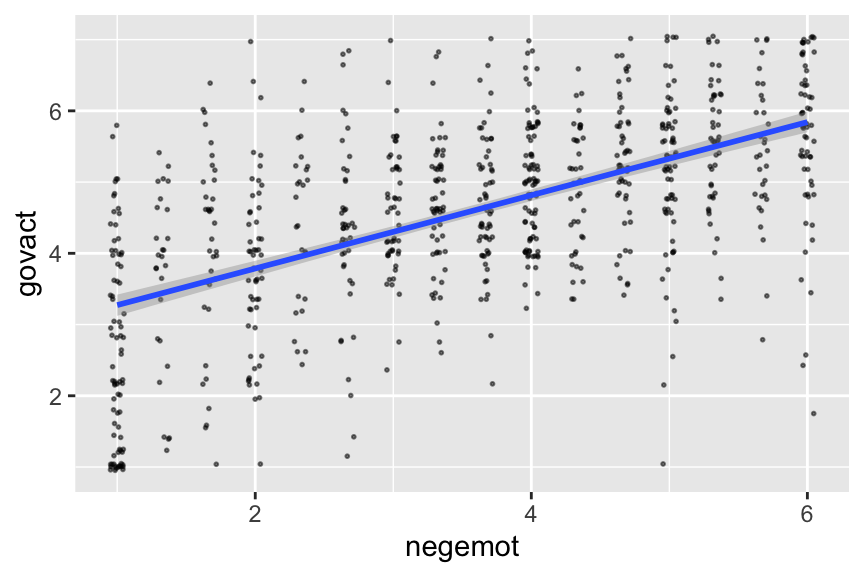
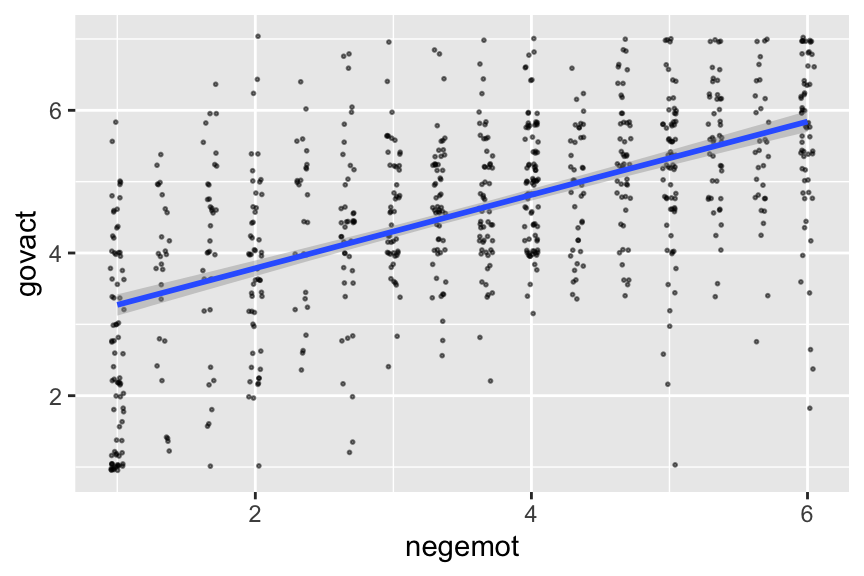
giscus

diff --git a/_book/02.html b/_book/02.html
@@ -2490,9 +2490,9 @@ Yao, Y., Vehtari, A., Simpson, D., &amp; Gelman, A. (2018). Using stacking to av
     script.src = "https://giscus.app/client.js";
     script.async = true;
     script.dataset.repo = "ASKurz/recoding-Hayes-2018";
-    script.dataset.repoId = "";
+    script.dataset.repoId = "MDEwOlJlcG9zaXRvcnkxMzUwNzQwMjI=";
     script.dataset.category = "General";
-    script.dataset.categoryId = "";
+    script.dataset.categoryId = "DIC_kwDOCA0Q5s4C1eRB";
     script.dataset.mapping = "title";
     script.dataset.reactionsEnabled = "1";
     script.dataset.emitMetadata = "0";

diff --git a/_book/03.html b/_book/03.html
@@ -1588,9 +1588,9 @@ Yuan, Y., &amp; MacKinnon, D. P. (2009). Bayesian mediation analysis. <em>Psycho
     script.src = "https://giscus.app/client.js";
     script.async = true;
     script.dataset.repo = "ASKurz/recoding-Hayes-2018";
-    script.dataset.repoId = "";
+    script.dataset.repoId = "MDEwOlJlcG9zaXRvcnkxMzUwNzQwMjI=";
     script.dataset.category = "General";
-    script.dataset.categoryId = "";
+    script.dataset.categoryId = "DIC_kwDOCA0Q5s4C1eRB";
     script.dataset.mapping = "title";
     script.dataset.reactionsEnabled = "1";
     script.dataset.emitMetadata = "0";

diff --git a/_book/04.html b/_book/04.html
@@ -1609,9 +1609,9 @@ Ripley, B. (2022). <em><span>MASS</span>: <span>Support</span> functions and dat
     script.src = "https://giscus.app/client.js";
     script.async = true;
     script.dataset.repo = "ASKurz/recoding-Hayes-2018";
-    script.dataset.repoId = "";
+    script.dataset.repoId = "MDEwOlJlcG9zaXRvcnkxMzUwNzQwMjI=";
     script.dataset.category = "General";
-    script.dataset.categoryId = "";
+    script.dataset.categoryId = "DIC_kwDOCA0Q5s4C1eRB";
     script.dataset.mapping = "title";
     script.dataset.reactionsEnabled = "1";
     script.dataset.emitMetadata = "0";

diff --git a/_book/05.html b/_book/05.html
@@ -1561,9 +1561,9 @@ Kay, M. (2021). <em>Extracting and visualizing tidy draws from brms models</em>.
     script.src = "https://giscus.app/client.js";
     script.async = true;
     script.dataset.repo = "ASKurz/recoding-Hayes-2018";
-    script.dataset.repoId = "";
+    script.dataset.repoId = "MDEwOlJlcG9zaXRvcnkxMzUwNzQwMjI=";
     script.dataset.category = "General";
-    script.dataset.categoryId = "";
+    script.dataset.categoryId = "DIC_kwDOCA0Q5s4C1eRB";
     script.dataset.mapping = "title";
     script.dataset.reactionsEnabled = "1";
     script.dataset.emitMetadata = "0";

diff --git a/_book/06.html b/_book/06.html
@@ -1675,9 +1675,9 @@ Tufte, E. R. (2001). <em>The visual display of quantitative information</em> (Se
     script.src = "https://giscus.app/client.js";
     script.async = true;
     script.dataset.repo = "ASKurz/recoding-Hayes-2018";
-    script.dataset.repoId = "";
+    script.dataset.repoId = "MDEwOlJlcG9zaXRvcnkxMzUwNzQwMjI=";
     script.dataset.category = "General";
-    script.dataset.categoryId = "";
+    script.dataset.categoryId = "DIC_kwDOCA0Q5s4C1eRB";
     script.dataset.mapping = "title";
     script.dataset.reactionsEnabled = "1";
     script.dataset.emitMetadata = "0";

diff --git a/_book/08.html b/_book/08.html
@@ -1990,9 +1990,9 @@ Hayes, A. F. (2018). <em>Introduction to mediation, moderation, and conditional 
     script.src = "https://giscus.app/client.js";
     script.async = true;
     script.dataset.repo = "ASKurz/recoding-Hayes-2018";
-    script.dataset.repoId = "";
+    script.dataset.repoId = "MDEwOlJlcG9zaXRvcnkxMzUwNzQwMjI=";
     script.dataset.category = "General";
-    script.dataset.categoryId = "";
+    script.dataset.categoryId = "DIC_kwDOCA0Q5s4C1eRB";
     script.dataset.mapping = "title";
     script.dataset.reactionsEnabled = "1";
     script.dataset.emitMetadata = "0";

diff --git a/_book/09.html b/_book/09.html
@@ -2503,9 +2503,9 @@ Vehtari, A., Gelman, A., Simpson, D., Carpenter, B., &amp; Bürkner, P.-C. (2019
     script.src = "https://giscus.app/client.js";
     script.async = true;
     script.dataset.repo = "ASKurz/recoding-Hayes-2018";
-    script.dataset.repoId = "";
+    script.dataset.repoId = "MDEwOlJlcG9zaXRvcnkxMzUwNzQwMjI=";
     script.dataset.category = "General";
-    script.dataset.categoryId = "";
+    script.dataset.categoryId = "DIC_kwDOCA0Q5s4C1eRB";
     script.dataset.mapping = "title";
     script.dataset.reactionsEnabled = "1";
     script.dataset.emitMetadata = "0";

diff --git a/_book/10.html b/_book/10.html
@@ -1989,9 +1989,9 @@ Hayes, A. F. (2018). <em>Introduction to mediation, moderation, and conditional 
     script.src = "https://giscus.app/client.js";
     script.async = true;
     script.dataset.repo = "ASKurz/recoding-Hayes-2018";
-    script.dataset.repoId = "";
+    script.dataset.repoId = "MDEwOlJlcG9zaXRvcnkxMzUwNzQwMjI=";
     script.dataset.category = "General";
-    script.dataset.categoryId = "";
+    script.dataset.categoryId = "DIC_kwDOCA0Q5s4C1eRB";
     script.dataset.mapping = "title";
     script.dataset.reactionsEnabled = "1";
     script.dataset.emitMetadata = "0";

diff --git a/_book/11.html b/_book/11.html
@@ -1376,9 +1376,9 @@ Preacher, K. J., Rucker, D. D., &amp; Hayes, A. F. (2007). Addressing moderated 
     script.src = "https://giscus.app/client.js";
     script.async = true;
     script.dataset.repo = "ASKurz/recoding-Hayes-2018";
-    script.dataset.repoId = "";
+    script.dataset.repoId = "MDEwOlJlcG9zaXRvcnkxMzUwNzQwMjI=";
     script.dataset.category = "General";
-    script.dataset.categoryId = "";
+    script.dataset.categoryId = "DIC_kwDOCA0Q5s4C1eRB";
     script.dataset.mapping = "title";
     script.dataset.reactionsEnabled = "1";
     script.dataset.emitMetadata = "0";

diff --git a/_book/12.html b/_book/12.html
@@ -1597,9 +1597,9 @@ Hayes, A. F. (2018). <em>Introduction to mediation, moderation, and conditional 
     script.src = "https://giscus.app/client.js";
     script.async = true;
     script.dataset.repo = "ASKurz/recoding-Hayes-2018";
-    script.dataset.repoId = "";
+    script.dataset.repoId = "MDEwOlJlcG9zaXRvcnkxMzUwNzQwMjI=";
     script.dataset.category = "General";
-    script.dataset.categoryId = "";
+    script.dataset.categoryId = "DIC_kwDOCA0Q5s4C1eRB";
     script.dataset.mapping = "title";
     script.dataset.reactionsEnabled = "1";
     script.dataset.emitMetadata = "0";

diff --git a/_book/13.html b/_book/13.html
@@ -1704,9 +1704,9 @@ Kay, M. (2021). <em>Extracting and visualizing tidy draws from brms models</em>.
     script.src = "https://giscus.app/client.js";
     script.async = true;
     script.dataset.repo = "ASKurz/recoding-Hayes-2018";
-    script.dataset.repoId = "";
+    script.dataset.repoId = "MDEwOlJlcG9zaXRvcnkxMzUwNzQwMjI=";
     script.dataset.category = "General";
-    script.dataset.categoryId = "";
+    script.dataset.categoryId = "DIC_kwDOCA0Q5s4C1eRB";
     script.dataset.mapping = "title";
     script.dataset.reactionsEnabled = "1";
     script.dataset.emitMetadata = "0";

diff --git a/_book/14.html b/_book/14.html
@@ -1132,9 +1132,9 @@ Yong, E. (2012). Replication studies: <span>Bad</span> copy. <em>Nature News</em
     script.src = "https://giscus.app/client.js";
     script.async = true;
     script.dataset.repo = "ASKurz/recoding-Hayes-2018";
-    script.dataset.repoId = "";
+    script.dataset.repoId = "MDEwOlJlcG9zaXRvcnkxMzUwNzQwMjI=";
     script.dataset.category = "General";
-    script.dataset.categoryId = "";
+    script.dataset.categoryId = "DIC_kwDOCA0Q5s4C1eRB";
     script.dataset.mapping = "title";
     script.dataset.reactionsEnabled = "1";
     script.dataset.emitMetadata = "0";
